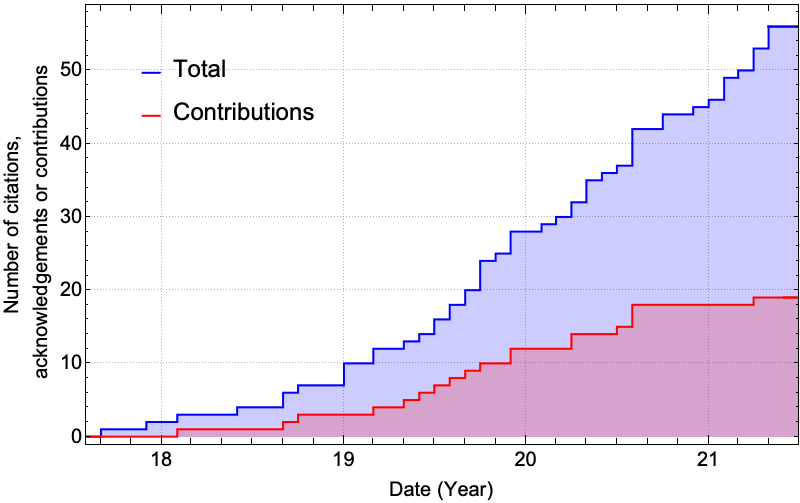
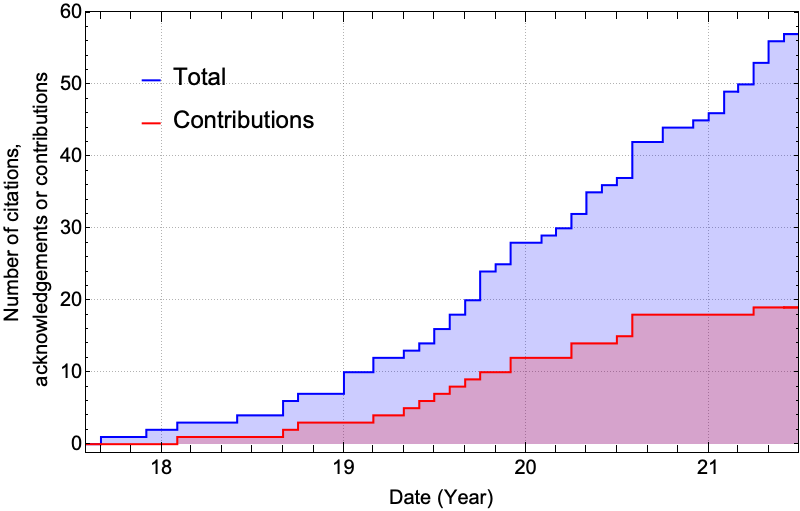
Add paper that cites the Toolkit

diff --git a/users.md b/users.md
@@ -19,6 +19,8 @@ The graph below show the accumulated citations to the Toolkit over time. The blu
 
 Below is a list of research papers that have used or extended the Toolkit. Papers that have contributed code or data to the Toolkit have a (*) after them.
 
+57\. Classification of radial Kerr geodesic motion, Geoffrey Compère, Yan Liu, Jiang Long, [arXiv:2106.03141](https://arxiv.org/abs/2106.03141)
+
 56\. Resonant self-force effects in extreme-mass-ratio binaries: A scalar model, Zachary Nasipak, Charles R. Evans, [arXiv:2105.15188](https://arxiv.org/abs/2105.15188)
 
 55\. Assessing the detectability of the secondary spin in extreme mass-ratio inspirals with fully-relativistic numerical waveforms, Gabriel Andres Piovano, Richard Brito, Andrea Maselli, Paolo Pani, [arXiv:2105.07083](https://arxiv.org/abs/2105.07083)
